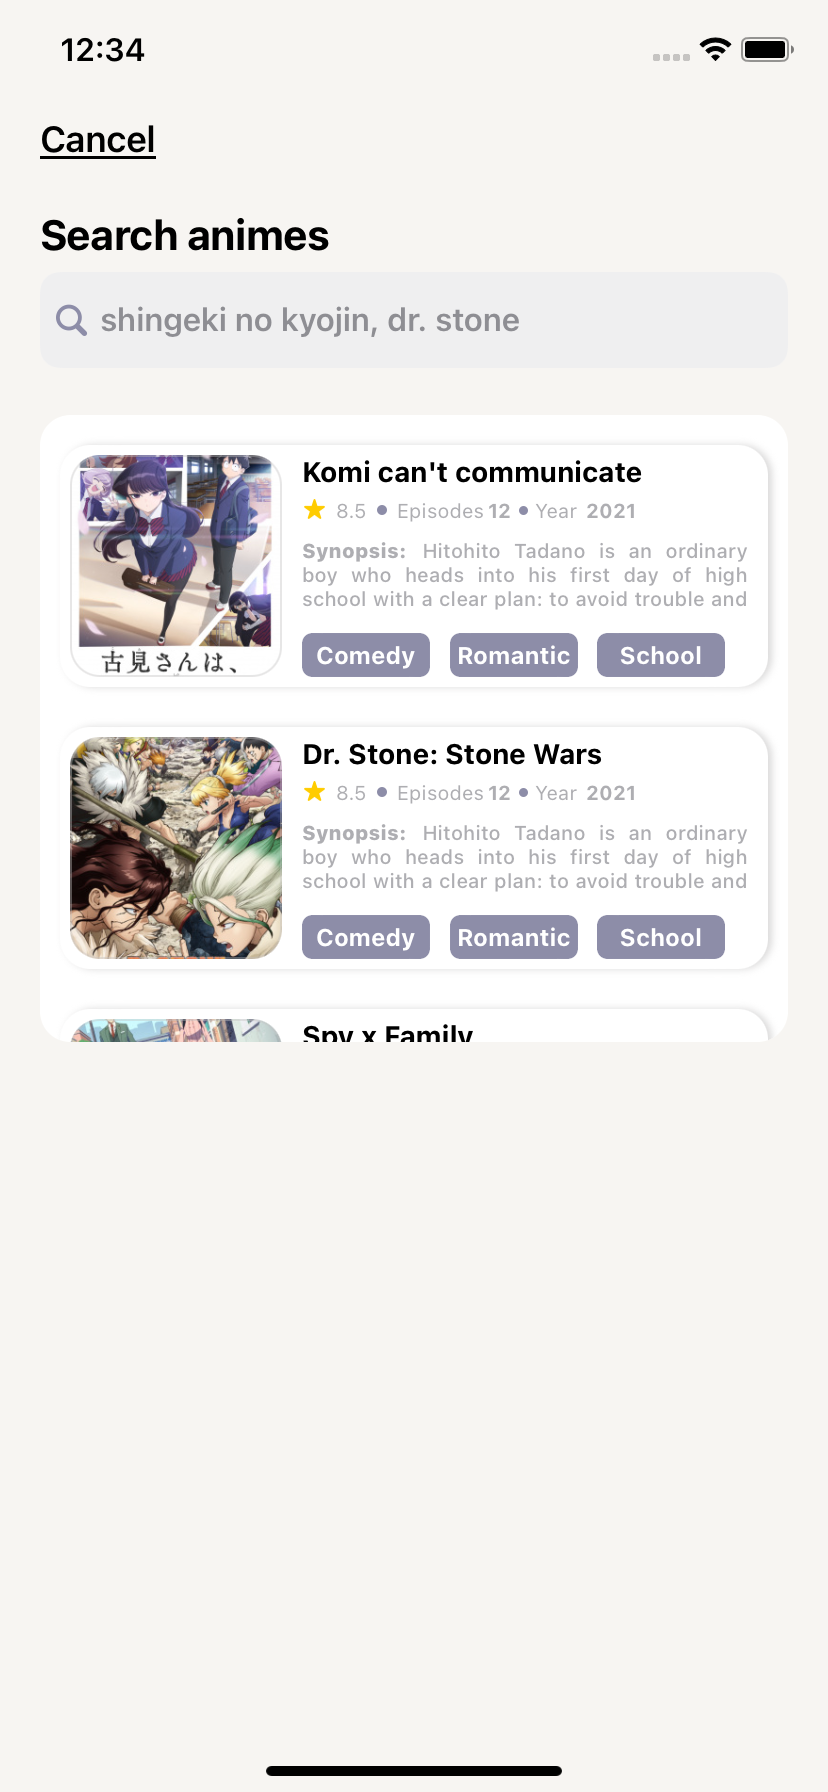
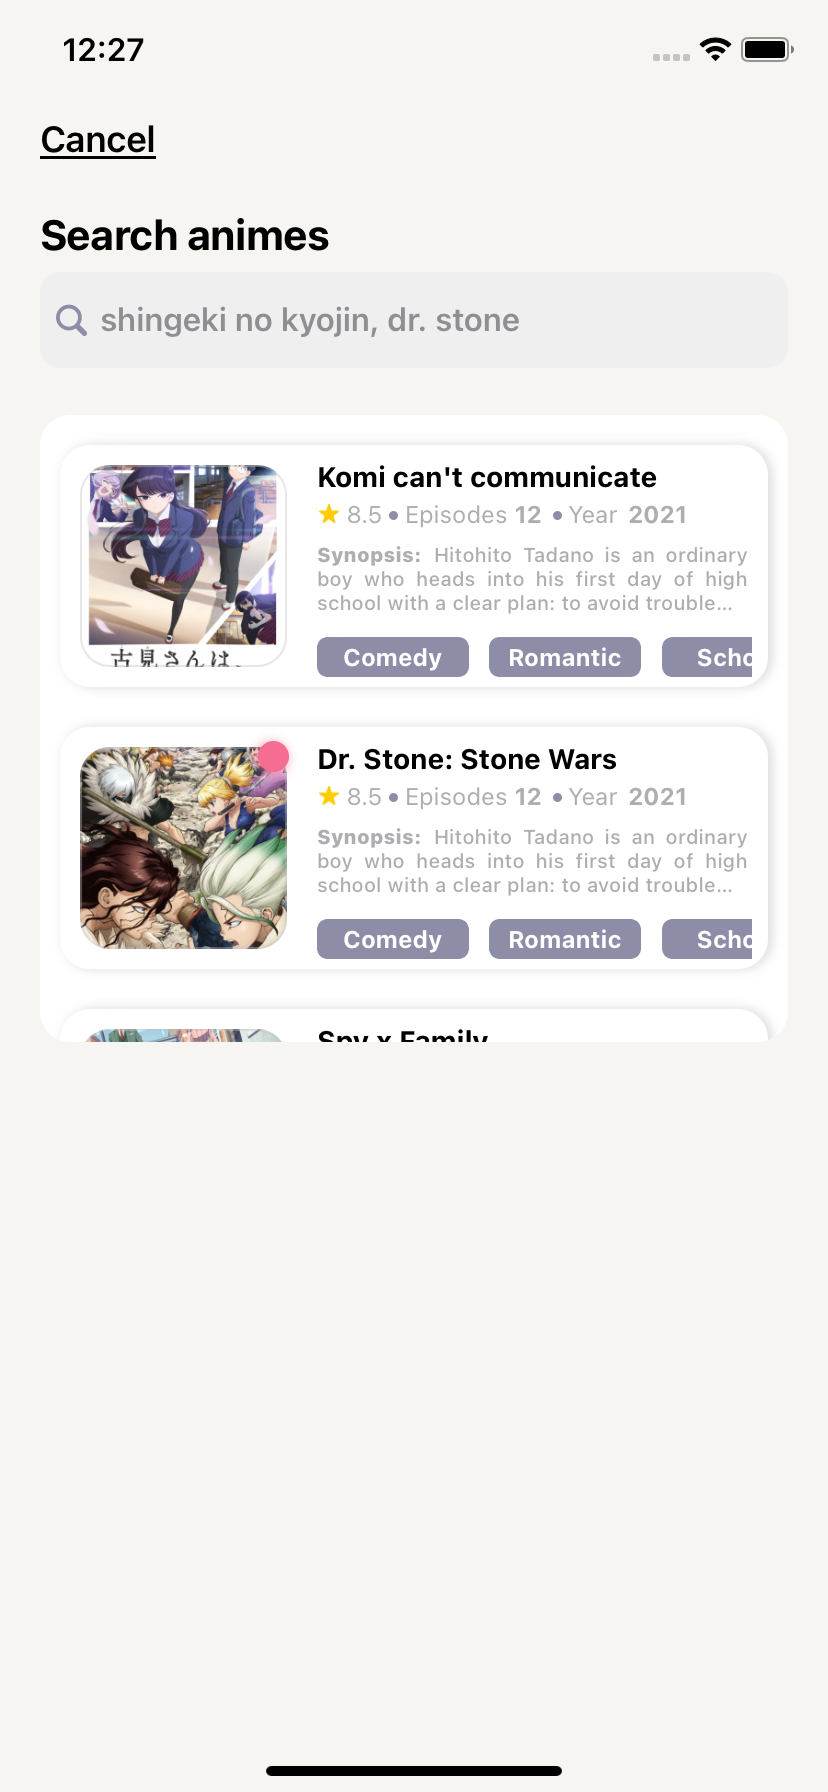
updated UI, and tail clipping for synopsis

Changed region(s): [[0.0604, 0.4062, 0.9058, 0.5938], [0.0906, 0.25, 0.9058, 0.375], [0.0906, 0.0, 0.1812, 0.0312]]

diff --git a/AnimeCalendar/AnimeCalendar/Scenes/Screens/NewAnime/Components/NewAnimeSearchResults/NewAnimeItem/NewAnimeSearchResultItem.swift b/AnimeCalendar/AnimeCalendar/Scenes/Screens/NewAnime/Components/NewAnimeSearchResults/NewAnimeItem/NewAnimeSearchResultItem.swift
@@ -64,7 +64,8 @@ extension NewAnimeSearchResultItem: Component {
   /// # Configure Subviews
   func configureSubviews() {
     configureGenreCollection()
-    configureShadows()
+    configureCellContiner()
+    configureCellContiner()
     configureImages()
     configureSynopsis()
   }
@@ -123,19 +124,21 @@ extension NewAnimeSearchResultItem: ComponentItem {
 }
 
 private extension NewAnimeSearchResultItem {
-  func configureShadows() {
+  func configureCellContiner() {
     // Container shadow
     var shadow = Shadow(.bottom)
     shadow.color = Color.lightGray
     shadow.offset = CGSize(width: 2, height: 0)
-    shadow.radius = 2
+    shadow.radius = 3
     animeContainerView.addShadowLayer(shadow: shadow, layerRadius: 15)
   }
 
   func configureImages() {
-    var shadow = Shadow(.bottom)
+    var shadow = Shadow()
     shadow.color = Color.pink
     shadow.radius = 3
+    shadow.offset = CGSize(width: -1, height: 1)
+    shadow.opacity = 0.8
     animeOnAirImage.addShadowLayer(shadow: shadow, layerRadius: 0)
     animeCoverImage.addCornerRadius(radius: 15)
     animeCoverImage.layer.borderColor = Color.lightGray.withAlphaComponent(0.4).cgColor
@@ -144,6 +147,7 @@ private extension NewAnimeSearchResultItem {
 
   func configureSynopsis() {
     animeSynopsisTextView.textContainer.lineFragmentPadding = 0
+    animeSynopsisTextView.textContainer.lineBreakMode = .byTruncatingTail
     animeSynopsisTextView.textContainerInset = UIEdgeInsets(top: 1, left: 0, bottom: 1, right: 0)
   }
 
@@ -199,7 +203,7 @@ private extension NewAnimeSearchResultItem {
 extension NewAnimeSearchResultItem: UICollectionViewDelegateFlowLayout {
   func collectionView(_ collectionView: UICollectionView, layout collectionViewLayout: UICollectionViewLayout, sizeForItemAt indexPath: IndexPath) -> CGSize {
     // TODO: Dynamic item-width depending on label text size
-    let width = animeGenreCollection.bounds.width * 0.28
+    let width = animeGenreCollection.bounds.width * 0.35
     let height = animeGenreCollection.bounds.height * 1
     return CGSize(width: width, height: height)
   }

diff --git a/AnimeCalendar/AnimeCalendar/SceneDelegate.swift b/AnimeCalendar/AnimeCalendar/SceneDelegate.swift
@@ -13,8 +13,8 @@ class SceneDelegate: UIResponder, UIWindowSceneDelegate {
   func scene(_ scene: UIScene, willConnectTo session: UISceneSession, options connectionOptions: UIScene.ConnectionOptions) {
     guard let windowScene = (scene as? UIWindowScene) else { return }
     let bootManager = BootManager()
-//    let rootController = bootManager.getRootController(.rootScreen(screen: .newAnimeScreen))
-    let rootController = bootManager.getRootController(.rootTabBar)
+    let rootController = bootManager.getRootController(.rootScreen(screen: .newAnimeScreen))
+//    let rootController = bootManager.getRootController(.rootTabBar)
     let rootViewController = rootController.getRootViewController()
 
     window = UIWindow(frame: windowScene.coordinateSpace.bounds)
